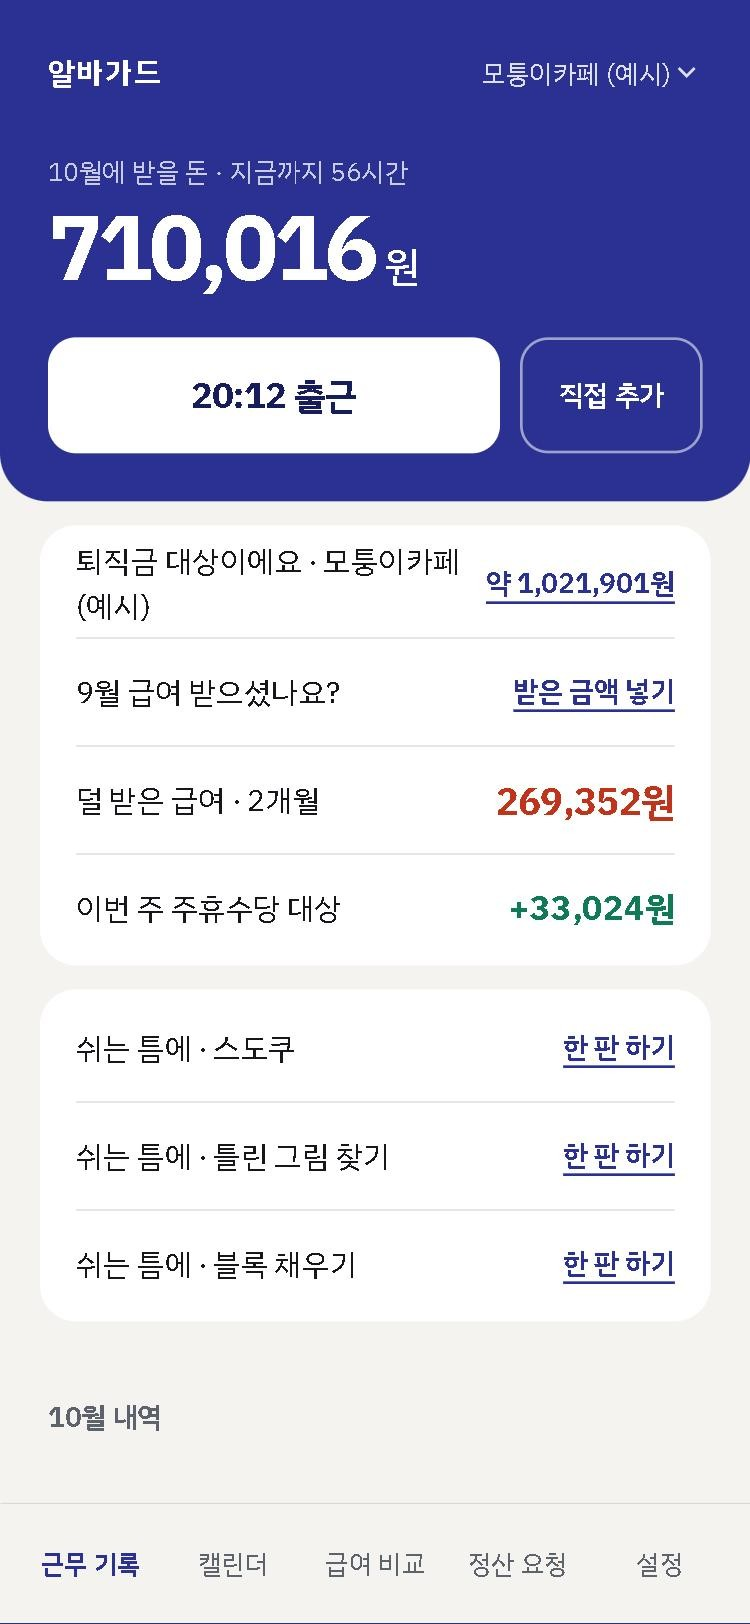
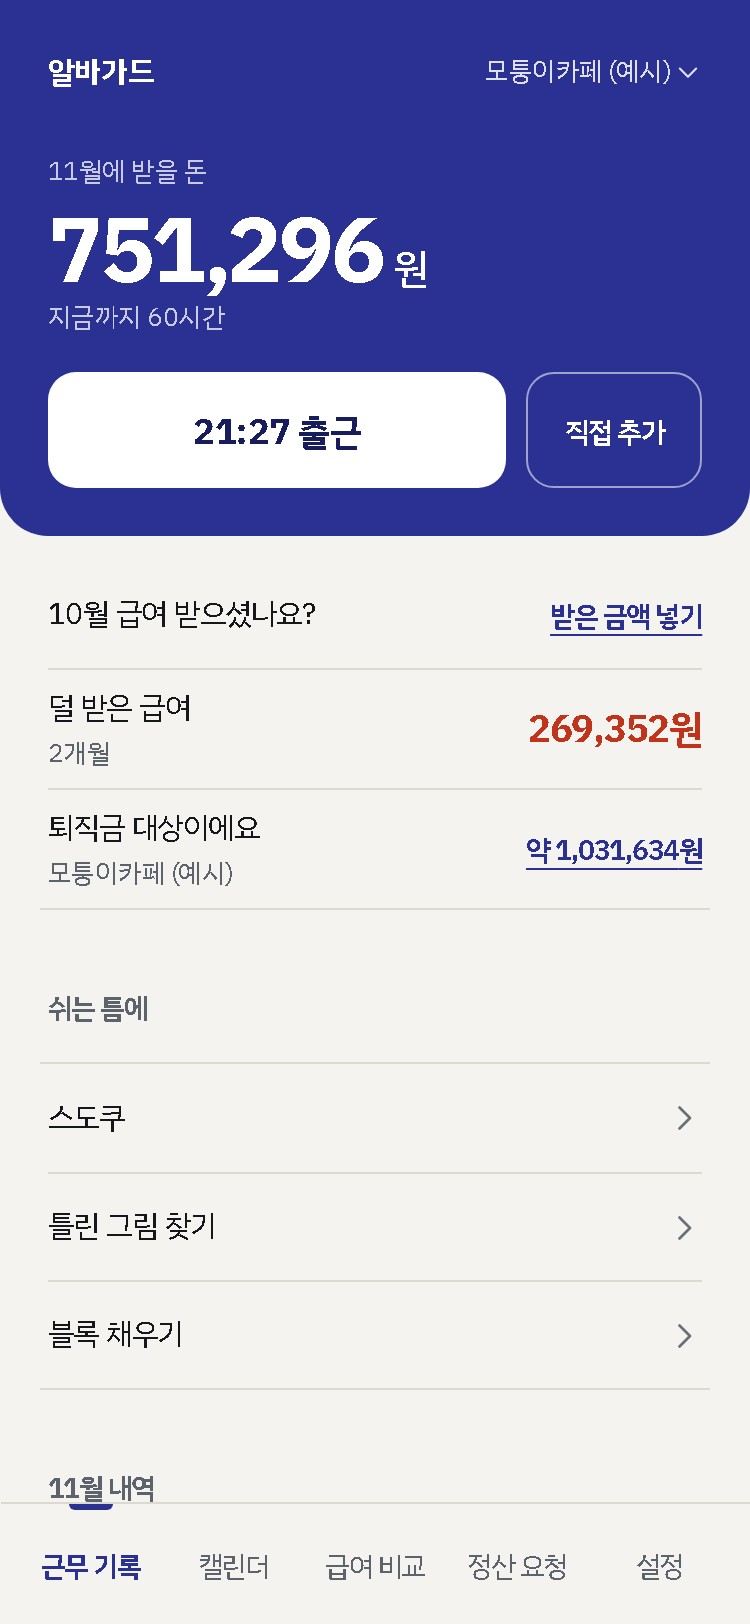
README 화면 캡처 11장과 링크 미리보기 그림을 지금 디자인으로 다시 찍음

diff --git a/CLAUDE.md b/CLAUDE.md
@@ -235,7 +235,7 @@
 - 주소 끝의 `#탭이름`(`#home`, `#calendar`, `#pay`, `#request`, `#workplaces`)으로 그 탭이 바로 열린다
 
 ### README 화면 캡처
-- `docs/screenshots/`에 폰 크기(375×812) 캡처 7장(1-home, 2-calendar, 3-pay, 4-request, 5-sudoku, 6-spot, 7-block)이 있고 README "화면 구성"에서 보여준다. 디자인이 바뀌면 다시 찍어 같은 파일 이름으로 바꾼다. 마지막으로 찍은 날: 2026.10.7(밝은 6장 + 어두운 4장 모두. 첫 화면에 퇴직금 알림 줄이 보인다), 7-block은 2026.10.12. 첫 화면 캡처(1-home)는 근무 중이 아닌 상태라 게임 줄이 안 보인다. 기능을 넣어 화면이 바뀌면 다시 찍을지 확인한다
+- `docs/screenshots/`에 폰 크기(375×812) 캡처 7장(1-home, 2-calendar, 3-pay, 4-request, 5-sudoku, 6-spot, 7-block)이 있고 README "화면 구성"에서 보여준다. 디자인이 바뀌면 다시 찍어 같은 파일 이름으로 바꾼다. 마지막으로 찍은 날: 2026.11.28(밝은 7장 + 어두운 4장 모두, 줄 + 구분선 첫 화면과 쉬는 틈 게임 줄이 보인다). 캘린더는 연장 · 대타가 함께 있는 예시 데이터 첫 달(석 달 전)로 넘겨 연장한 날을 고른 상태로 찍었다. 스크립트는 scratchpad `design_review/readme_shots.py` · `cal_shot.py`(스도쿠 판은 보통으로 시작한 뒤 localStorage에서 칸 · 메모 · 힌트를 채움, 블록은 실제로 몇 번 놓음). 기능을 넣어 화면이 바뀌면 다시 찍을지 확인한다
 - 캡처는 750×1624 jpg로 저장한다(브라우저 캡처를 그 크기로 맞춤). 찍고 나면 예시 데이터와 `albaguard-theme`을 지운다. 어두운 화면은 `albaguard-theme`을 `dark`로 두고 찍는다
 - 홈 화면 그림 `0-homescreen.png`(2026.10.7): 폰 홈 화면에 알바가드 아이콘이 깔린 모습을 HTML로 그려 375×812로 찍은 설명용 그림. 알바가드 아이콘만 실제 파일이고, 다른 앱은 상표를 피하려고 흔한 모양으로만 그렸다(위젯도 "맑음 18°"처럼 앱과 상관없는 내용). README 아이콘 설명 아래에 "설명용 그림"이라는 단서와 함께 넣었다. 아이콘이 바뀌면 다시 그린다
 - `icon-rounded.png`(앱 아이콘을 둥근 모서리로 잘라 낸 그림)는 README 맨 위 오른쪽에 있었으나, 소개 그림(`og.png`)을 맨 위에 넣으면서 아이콘이 두 번 보여 뺐다(2026.10.7). 파일은 남겨 두었다(링크 미리보기 그림을 만들 때 쓴다). GitHub README는 CSS로 모서리를 깎을 수 없어서 그림 자체를 잘랐다. 앱이 쓰는 `public/icon-*.png`는 네모 그대로 둔다(폰이 알아서 깎음)
@@ -243,7 +243,7 @@
   - README 맨 위(제목과 한 줄 소개 바로 아래)에 소개 그림으로도 넣었다
   - 앱 주소용: `index.html`의 og 태그(`og:image`는 전체 주소 `https://jihooni217.github.io/albaguard/og.png`로 써야 한다)와 설명 문구
   - GitHub 저장소 주소용: 사용자가 저장소 Settings → General → Social preview에 같은 그림을 직접 올렸다(이건 Claude가 바꿀 수 없다)
-  - 만드는 법: 아이콘과 같이 브라우저 캔버스에 그리고(IBM Plex Sans KR), Vite 설정에 잠깐 붙인 저장 경로로 `public/og.png`에 저장한 뒤 `vite.config.js`를 되돌렸다
+  - 만드는 법: 아이콘과 같이 브라우저 캔버스에 그리고(IBM Plex Sans KR), Vite 설정에 잠깐 붙인 저장 경로로 `public/og.png`에 저장한 뒤 `vite.config.js`를 되돌렸다. 2026.11.28에는 같은 배치를 HTML로 그려 Playwright로 1280×640 캡처해 다시 만들었다(scratchpad `design_review/og_make.py`, 첫 화면은 게임 줄을 숨긴 상태라 내역이 보임)
   - **화면 디자인·아이콘이 바뀌어 캡처를 다시 찍으면 이 그림도 다시 만들고, 사용자에게 GitHub Social preview도 다시 올려 달라고 한다.** 카톡은 미리보기를 한동안 저장해 두므로 바로 안 바뀔 수 있다(주소 끝에 `?v=2`를 붙이면 새로 불러옴)
 - **사용자가 GitHub에서 README를 직접 고치기도 한다**(계정 LeeJihoon, 2026.10.7). 아이콘 설명은 뜻(방패·고리·빨간 한 토막)만 남기고 "친구 스케치·색 샘플" 이야기는 뺐다, "웹 앱으로 열기" 줄은 따로 떨어진 항목으로, "알아 둘 것"은 굵은 제목으로 바꿨다. README를 고치기 전에 `git pull`로 받아서 사용자의 수정을 덮어쓰지 않고, 뺀 내용을 다시 넣지 않는다
 - **설치 방법**(2026.10.7): README 맨 위 "폰에 설치하기"에 아이폰(Safari 공유 → 홈 화면에 추가), 갤럭시 삼성 인터넷(메뉴 → 현재 페이지 추가 → 홈 화면), 갤럭시 Chrome(메뉴 → 홈 화면에 추가/앱 설치)으로 나눠 적었다. "알아 둘 것"에 아이폰은 Safari와 홈 화면 앱의 기록이 따로 저장된다는 점, 백업, 오프라인, 아이콘이 안 바뀌면 지우고 다시 추가를 적었다. 아이폰 순서는 2026.10.7 팀원(이지훈)이 실제 폰에서 해 보고 고쳤다(Safari 주소 옆 줄 세 개 → 공유 → 더 보기 → 홈 화면에 추가 → 추가). 이때 나오는 "웹 앱으로 열기"는 켠 채로 두라고 적었다(끄면 Safari 탭으로 열림, 사용자 캡처로 확인). 갤럭시(삼성 인터넷·Chrome) 메뉴 이름은 아직 실제 폰에서 확인하지 않았다 — 갤럭시를 쓰는 팀원이 확인해 다르면 고친다. Chrome은 "앱 설치"와 "홈 화면에 추가"가 따로 나올 수 있는데 "앱 설치"가 아이폰의 "웹 앱으로 열기"에 해당한다

diff --git a/README.md b/README.md
@@ -64,7 +64,7 @@
   <img src="docs/screenshots/7-block.jpg" width="200" alt="블록 채우기 화면" />
 </p>
 
-근무 기록 · 캘린더 · 급여 비교 · 정산 요청 · 스도쿠 · 틀린 그림 찾기 · 블록 채우기 (예시 데이터를 넣은 화면, 2026.10 기준)
+근무 기록 · 캘린더 · 급여 비교 · 정산 요청 · 스도쿠 · 틀린 그림 찾기 · 블록 채우기 (예시 데이터를 넣은 화면, 2026.11 기준)
 
 어두운 화면(다크 모드)도 있다. 폰 설정을 따르고, 설정 탭에서 직접 고를 수도 있다.
 
